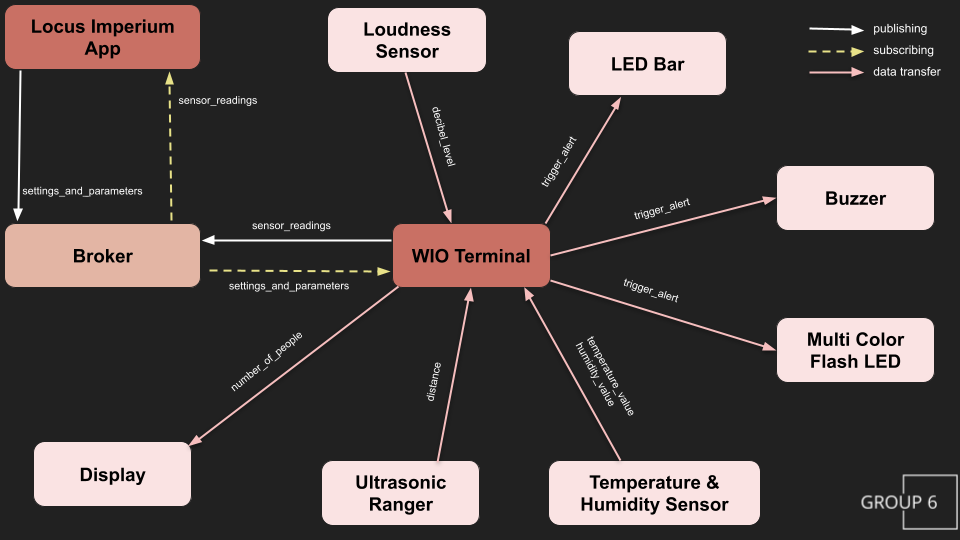
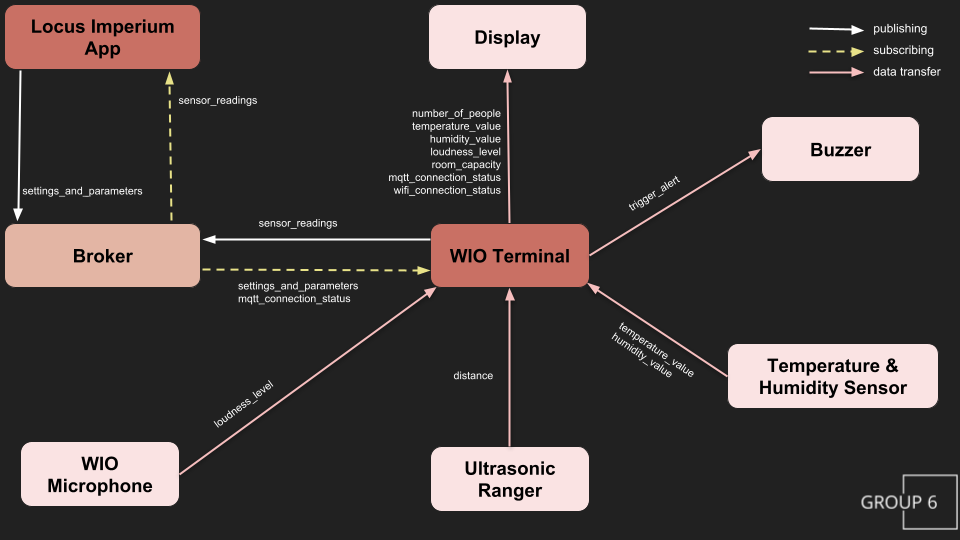
Updated readme #64
Changed mqtt diagram to be up-to-date, added Arduino battery to 'Hardware' section, updated the table of contents, added 'Purpose & Benefits' section, etc.

diff --git a/README.md b/README.md
@@ -3,7 +3,7 @@
 
 ![Locus Imperium](/media/LocusImperium.gif)
 
-### A room controlling device that reads room data attributes such as temperature, humidity and estimates how many people are currently in the room.
+### A room controlling device that reads room data attributes such as temperature, humidity, loudness, and estimates how many people are currently in the room.
 
 </div>
 
@@ -11,8 +11,8 @@
 
 - [Links](#links)
 - [Introduction](#introduction)
-  - [Why the project is useful](#why-the-project-is-useful)
-  - [How we will make it](#how-we-will-make-it)
+  - [Purpose & Benefits](#purpose--benefits)
+  - [How the system works](#how-the-system-works)
   - [Tools we used](#tools-we-used)
 - [Installation](#installation)
   - [Prerequisites](#prerequisites)
@@ -29,21 +29,23 @@
 
 # Introduction
 
-## Why the project is useful
+## Purpose & Benefits
 
-- By knowing the room temperature you are able to tell if the temperature is too high or not.
+The purpose of this project is to create a device that reads room data attributes such as temperature, humidity, loudness, and the amount of people in a room. 
 
-- By knowing how many people are in the room you are able to tell if the safety hazard is broken.
+This information allows the user to study the air quality and ensure that they and their peers are in a healthy environment. For example:
 
-- By knowing the humidity you are able to determine if actions necessary. Example high humidity leads to mold formation.
+- Keeping track of the room temperature and being able to regulate it whenever it exceeds the set limit guarantees everybody's comfort.
+- Monitoring the level of humidity in the room and making sure it does not surpass the recommended relative humidity indoors could prevent undesirable conditions such as dry skin, dampness, mold formation, etc.
+- The user can further prevent everyone around them from being in an unpleasant environment by keeping an eye on the loudness level. Any loud noise over a prolonged period of time may damage one's hearing.
 
-- This information could be useful to determine a relation between the amount of people in the room and the air quality.
+All this information could be useful to determine a relation between the amount of people in the room and the air quality.
 
-## How we will make it
+## How the system works
 
 ![Locus Imperium](/media/mqtt.png)
 
-## Tools we used
+## Tools used
 
 - [Android Studio](https://developer.android.com/studio)
 
@@ -73,9 +75,16 @@
 ## Prerequisites
 ### Hardware
  - [WIO Terminal](https://wiki.seeedstudio.com/Wio-Terminal-Getting-Started/)
+ - [Wio Terminal Chassis Battery](https://wiki.seeedstudio.com/Wio-Terminal-Battery-Chassis/)
  - [Grove Ultrasonic Sensor](https://wiki.seeedstudio.com/Grove-Ultrasonic_Ranger/) x 2
  - [Grove Temperature and Humidity Sensor](https://wiki.seeedstudio.com/Grove-TemperatureAndHumidity_Sensor/)
  - [Grove Buzzer](https://wiki.seeedstudio.com/Grove-Buzzer/)
+
+ <details>
+ <summary> Hardware Architecture </summary>
+ 
+![](media/IMG_4191.png)
+ </details>
 
 ### Software
  - Valid C++ compiler
@@ -83,7 +92,7 @@
   - (Optional) Arduino shell [Download](https://www.arduino.cc/en/software) | OR | Arduino IDE [Download](https://www.arduino.cc/en/software)
 
 ## Initial setup
-> Before starting, ensure you have the following [prerequisites](#prerequisites)
+> Before starting, ensure you have the following [prerequisites](#prerequisites).
 
 ## Setting up WIO Terminal
 1. Clone the repository 
@@ -94,7 +103,7 @@
 3. Open the installation folder and select the folder for your operating system.
 4. Execute the  `run` file.
 5. Enter values for your WiFi and broker address. See [how to find your IPv4.](#how-to-find-your-ipv4)
-6. Done
+6. Done!
 
 ### How to find your IPv4
 <details>
@@ -109,7 +118,7 @@
 
 ## Setting up Android App
 
-1. TODO
+<!-- TODO -->
 
 # Developed by
 
